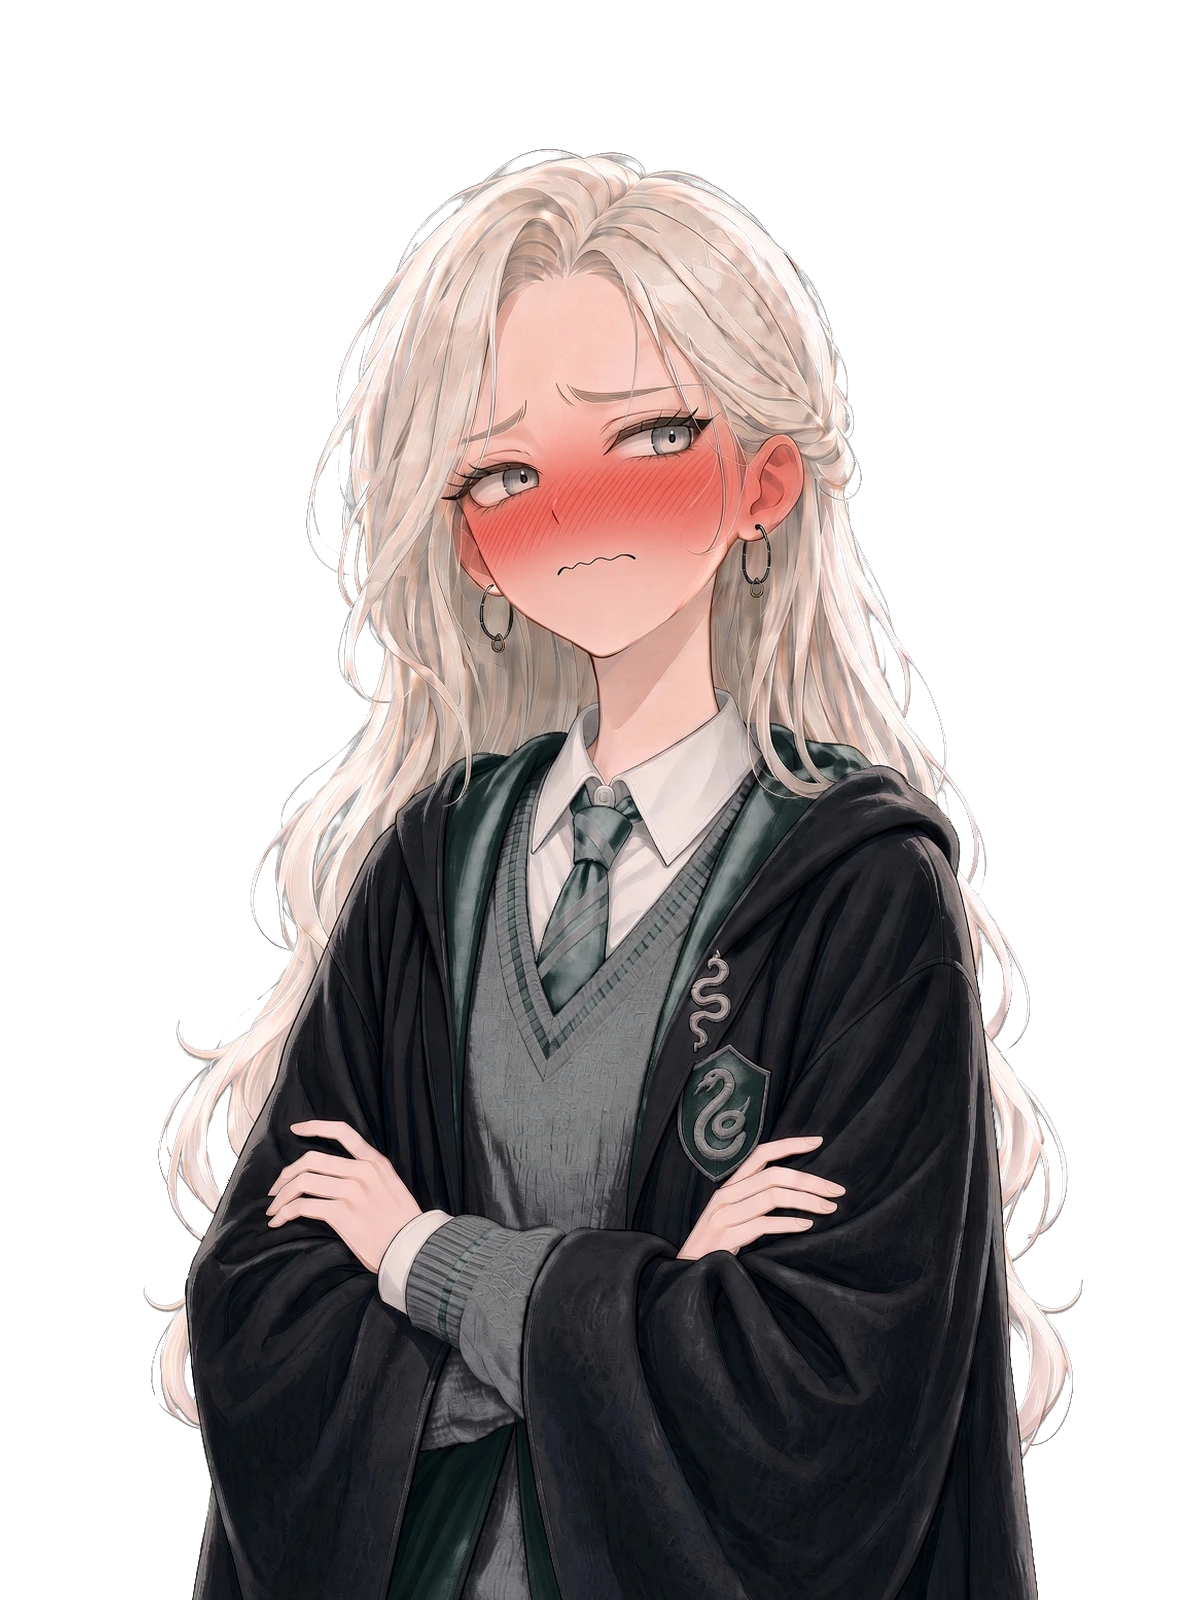
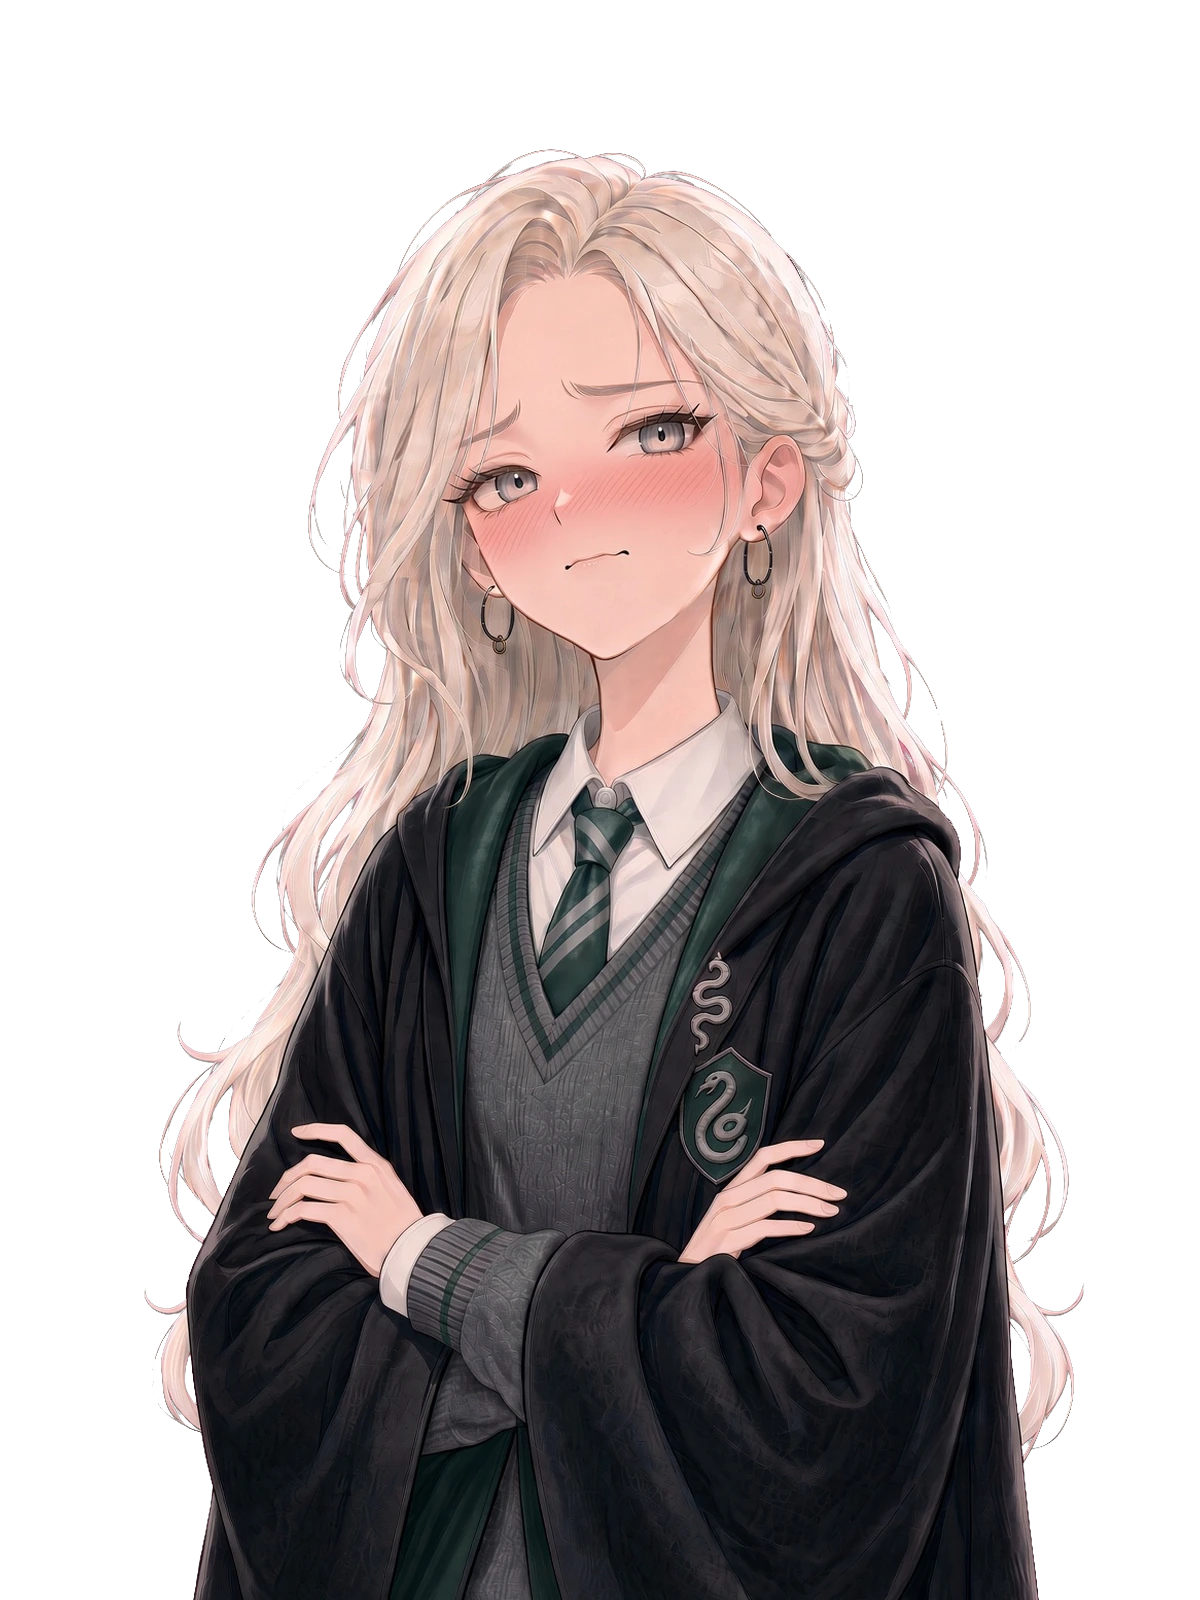
v0.3.1：馬份立繪重新去背（修正透底）、第一二章劇本更新
Claude-Session: https://claude.ai/code/session_01PBz3XvQT9DB7un91vn9J3W

Changed region(s): [[0.1233, 0.0938, 0.8942, 1.0]]

diff --git a/README.md b/README.md
@@ -1,4 +1,4 @@
-# 《鉑金色的馬份》｜蛇與獅之歌　v0.3.0
+# 《鉑金色的馬份》｜蛇與獅之歌　v0.3.1
 
 哈利波特同人視覺小說。網頁版，手機、電腦都能玩，直向／橫向自動切換。
 
@@ -38,6 +38,7 @@
 - 設定（同一頁）：文字速度、自動速度、只略過已讀、三種音量（每 1 點調整）
 
 ## 版本
+- **v0.3.1**：馬份 30 張立繪換成重新去背的版本（修正背心、領帶、蝴蝶結透底）；第一、二章劇本更新（補上更多表情演出、活米村上船前榮恩與馬份同時在場）。
 - **v0.3.0**：放入 8 張正式背景（斜角巷、摩金夫人長袍店、奧利凡德、咿啦貓頭鷹商店、破釜酒吧、國王十字車站、列車車廂、活米村車站），背景改用 WebP（`assets/bg/<名稱>.webp`），其餘 3 張佔位背景也轉成 WebP；CG 也改讀 WebP（`assets/cg/<id>.webp`）；登記新服裝：馬份三套（noble 貴族服、school 分院前黑袍、slytherin 史萊哲林校服），榮恩、妙麗兩套（school 黑袍、gryffindor 葛來分多校服），佔位圖照新資料夾結構整理；馬份表情 pout 改名 cute；更新角色設定與寫作規則（表情新定義、馬份學院定為史萊哲林、克拉高爾外觀）；放入馬份三套服裝共 30 張正式立繪；海格 scale 1.15 暫時改回 1（避免頭頂被裁切）；第二章分院後三人換上學院校服；第一章貓頭鷹商店段落改寫。
 - **v0.2.6**：第一、二章劇本更新（新 CG「伸出的手」「星空下的校歌」、新增馬份 panic／pout 演出）；馬份新增 panic、pout、cry 三個表情（兩套服裝，先用佔位圖）；圖鑑一般 CG 依劇情順序重排；更新角色設定與寫作規則文件。
 - **v0.2.5**：立繪改用 WebP（`assets/chara/…/<表情>.webp`）；立繪規格頭高改為約 500px（頭頂 y≈150、下巴 y≈650），佔位圖全部照新比例重畫；放入第一張正式立繪（馬份貴族服 normal）；橫向立繪上移 80px，雙臂露在對話框上方；立繪底部 15% 漸層淡出（存檔縮圖同步）。
